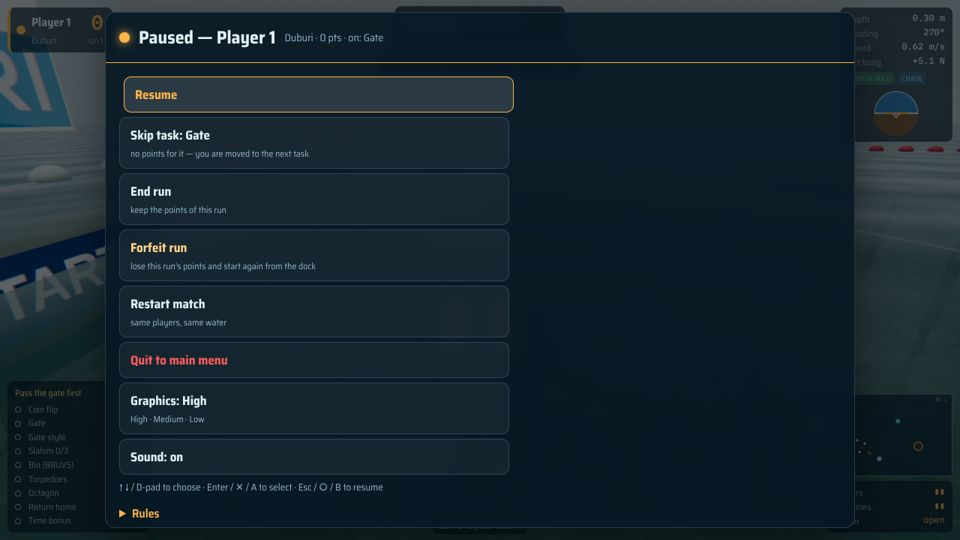
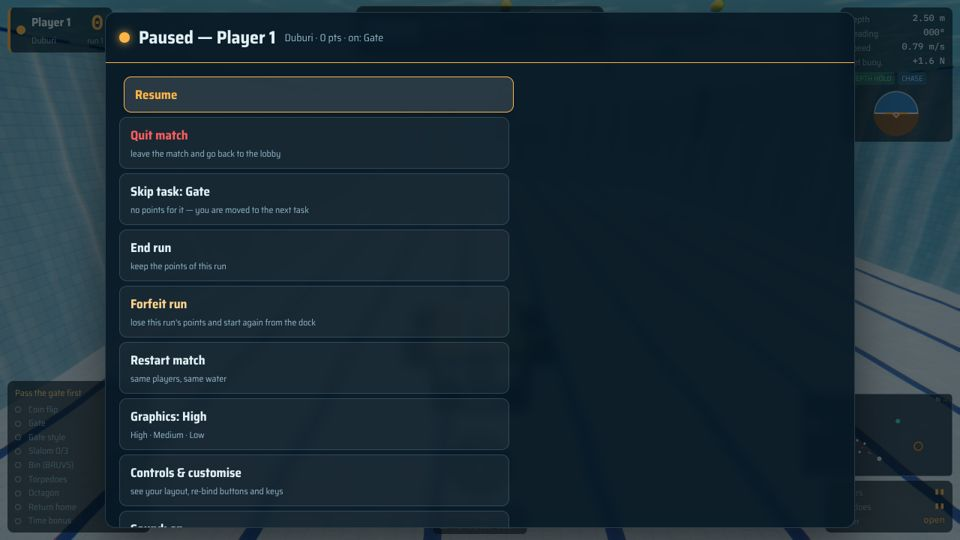
README: match the game — Quit button and menu, no kelp after the Atlantic; new pause screenshot
Claude-Session: https://claude.ai/code/session_01KCgrYoCcrALJWu1aziuUi3

diff --git a/README.md b/README.md
@@ -71,7 +71,7 @@ Arctic than in the pool, and current, turbulence and waves really push you aroun
 * Post-processing on every split-screen view: bloom, underwater colour absorption that gets
   stronger with depth and murk, refraction wobble, vignette, chromatic aberration, film grain.
 * Sun shadows, image-based reflections on metal and acrylic, caustics on the floor, god rays,
-  thruster bubbles that rise and pop at the surface, marine snow, fish, kelp and ice.
+  thruster bubbles that rise and pop at the surface, marine snow, coral, fish, jellyfish and sea ice.
 * Synthesised underwater sound: each thruster's blade-pass hum and motor whine follow its real
   rpm, prop wash and cavitation, muffled water acoustics with a dark room echo, bubbles and
   ambience, hydrophone pings from the pingers, splashes, thuds and gripper servos. Other
@@ -102,14 +102,16 @@ bin or torpedo + octagon surface.
 
 ![Pause menu](screenshots/pause.jpg)
 
-Each player has their own pause menu (**Options / Menu**, **Tab** or **Backspace**; **Esc** for
-player 1), driven with their own controller:
+Next to the clock there are always two buttons: **⏸ Pause** and **✕ Quit match** (it asks
+before quitting). Each player also has their own pause menu (**Options / Menu**, **Tab** or
+**Backspace**; **Esc** for player 1), driven with their own controller:
 
+* **Quit match** — the match ends and everyone goes back to the lobby.
 * **Skip task** — no points for it; you are moved to the start of the next task.
 * **End run** — stop here and keep the points.
 * **Forfeit run** — lose this run's points and start again from the dock.
 * **Leave match** — you drop out, the others keep playing and the screen re-splits.
-* **Restart match** / **Quit to main menu**.
+* **Restart match** — same players, same water, from the start.
 
 ## Controls — see them, change them
 
@@ -224,7 +226,7 @@ screenshots/    pictures for this README
 
 | File | What it is for |
 |---|---|
-| `scenery.js` | The water world: surface and waves, floor and caustics, pool walls, coral, kelp, ice, fish, particles, light rays, fog. |
+| `scenery.js` | The water world: surface and waves, floor and caustics, pool walls, coral, ice, fish, jellyfish, particles, light rays, fog. |
 | `course3d.js` | 3D models of the course elements. |
 | `bots3d.js` | 3D models of the five vehicles (spinning props, gripper, markers, torpedoes) and of the payload items. |
 | `art.js` | Loads the animal pictures as textures. |
